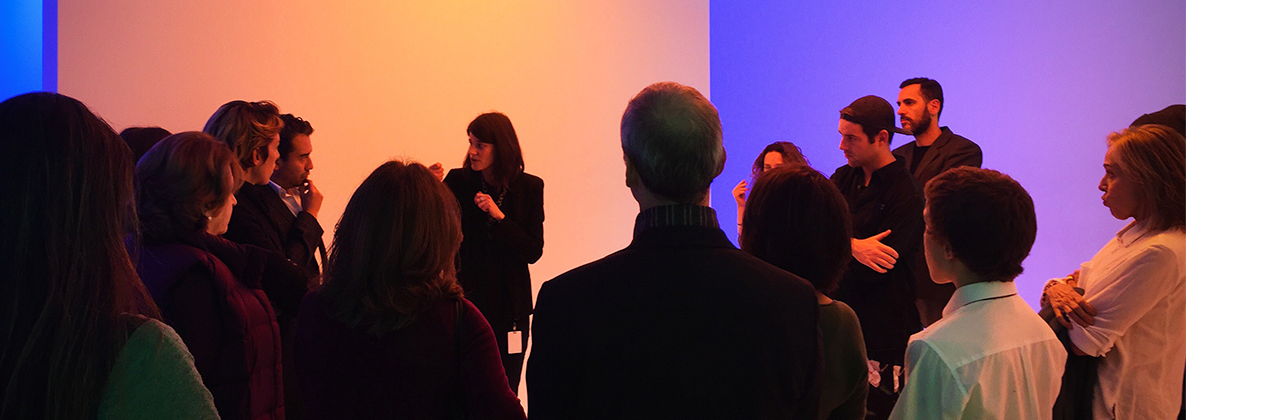
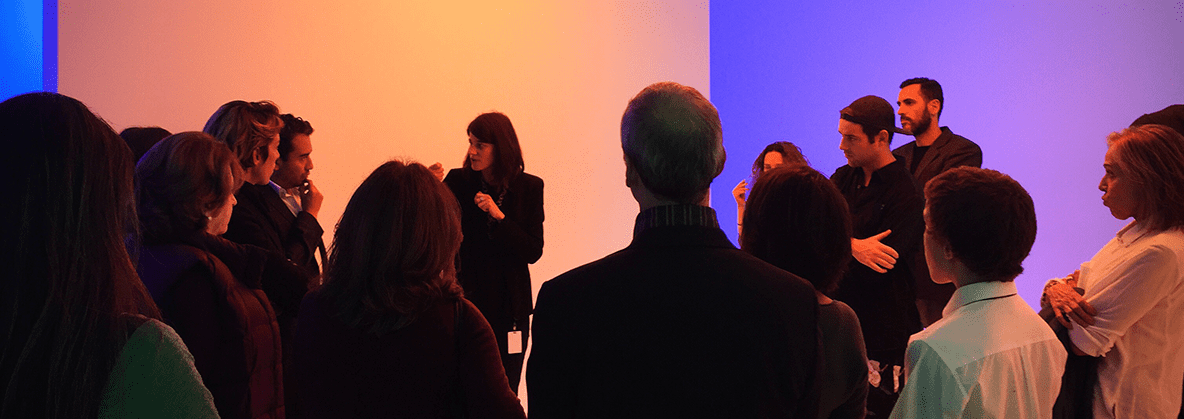
fix(images): rename into english and minimize some images

diff --git a/components/Team.vue b/components/Team.vue
@@ -38,7 +38,7 @@ export default {
       teamMembers: [
         {
           id: '1',
-          imageLink: 'Дельфинов.png',
+          imageLink: 'Delphinov.png',
           name: 'Александр  Дельфинов',
           text: 'Поэт, журналист, литератор. Автор поэтических книг “Весёлые нечеловечки" (2000), "Анестизия 2084" ' +
             '(2002), "Шкаф" (2005). В 1999-2001 гг. литературный редактор информационного проекта снижения вреда "мозг"' +
@@ -46,7 +46,7 @@ export default {
         },
         {
           id: '2',
-          imageLink: 'Дельфинов.png',
+          imageLink: 'Delphinov.png',
           name: 'Александр  Дельфинов',
           text: 'Поэт, журналист, литератор. Автор поэтических книг “Весёлые нечеловечки" (2000), "Анестизия 2084" ' +
             '(2002), "Шкаф" (2005). В 1999-2001 гг. литературный редактор информационного проекта снижения вреда "мозг"' +
@@ -54,7 +54,7 @@ export default {
         },
         {
           id: '3',
-          imageLink: 'Дельфинов.png',
+          imageLink: 'Delphinov.png',
           name: 'Александр  Дельфинов',
           text: 'Поэт, журналист, литератор. Автор поэтических книг “Весёлые нечеловечки" (2000), "Анестизия 2084" ' +
             '(2002), "Шкаф" (2005). В 1999-2001 гг. литературный редактор информационного проекта снижения вреда "мозг"' +
@@ -62,7 +62,7 @@ export default {
         },
         {
           id: '4',
-          imageLink: 'Дельфинов.png',
+          imageLink: 'Delphinov.png',
           name: 'Александр  Дельфинов',
           text: 'Поэт, журналист, литератор. Автор поэтических книг “Весёлые нечеловечки" (2000), "Анестизия 2084" ' +
             '(2002), "Шкаф" (2005). В 1999-2001 гг. литературный редактор информационного проекта снижения вреда "мозг"' +

diff --git a/components/Contacts.vue b/components/Contacts.vue
@@ -65,21 +65,21 @@ export default {
       contactData: [
         {
           id: '1',
-          imageLink: 'Дельфинов.png',
+          imageLink: 'Delphinov.png',
           name: ' Дарья  Байбакова',
           position: 'Директорзаведения',
           telephone: '+79060741192'
         },
         {
           id: '2',
-          imageLink: 'Дельфинов.png',
+          imageLink: 'Delphinov.png',
           name: ' Дарья  Байбакова',
           position: 'Директорзаведения',
           telephone: '+79060741192'
         },
         {
           id: '3',
-          imageLink: 'Дельфинов.png',
+          imageLink: 'Delphinov.png',
           name: ' Дарья  Байбакова',
           position: 'Директорзаведения',
           telephone: '+79060741192'

diff --git a/components/Rylkov.vue b/components/Rylkov.vue
@@ -32,7 +32,7 @@
           Андрей
         </p>
       </div>
-      <img src="@/assets/images/Рыльков.png" alt="Рыльков" class="info__image">
+      <img src="@/assets/images/Rylkov.png" alt="Рыльков" class="info__image">
     </div>
     <div class="info__text-container">
       <p class="info__link-description">

diff --git a/components/AboutUs.vue b/components/AboutUs.vue
@@ -57,7 +57,7 @@ export default {
   }
 
   .about-us__title {
-    background-image: url("./assets/images/about-us.png");
+    background-image: url("../assets/images/about-us.png");
     height: 340px;
     background-position: center;
     background-size: cover;
